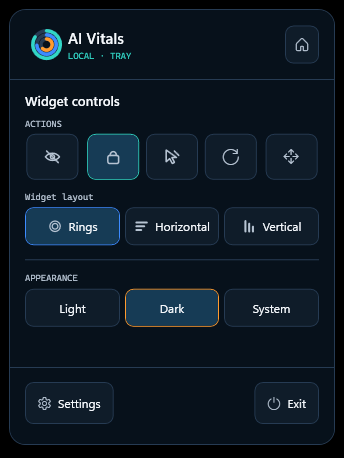
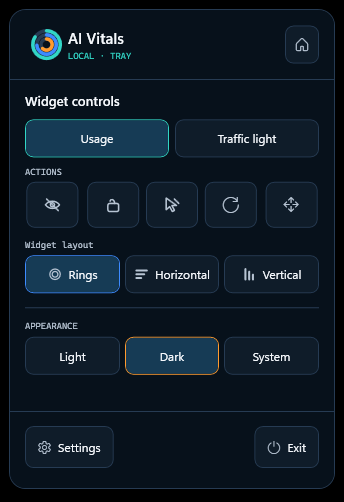
docs(readme): document both widgets and recapture the tray menu

diff --git a/src/AIVitals.App/App.xaml.cs b/src/AIVitals.App/App.xaml.cs
@@ -171,7 +171,10 @@ public partial class App : System.Windows.Application
             ConfigureActivityInstallers(activityWidgetPreferences.ShowSessionLabels);
             _activityMonitor = new AgentActivityMonitor(ToActivityProviders(activityWidgetPreferences.IncludedProviderIds!));
             _activityMonitor.Start();
-            await EnsureConfiguredActivityHooksAsync(_monitor.State.Preferences.EffectiveActivityIntegrations);
+            // The same switch that spares the real statusLine spares the real hook files: a sandboxed
+            // run must leave both agents' configuration exactly as it found it.
+            if (!skipClaudeInstaller)
+                await EnsureConfiguredActivityHooksAsync(_monitor.State.Preferences.EffectiveActivityIntegrations);
 
             ApplyStartupRegistration(_monitor.State.Preferences.StartWithWindows);
             _updateService.StatusChanged += OnUpdateStatusChanged;

diff --git a/README.md b/README.md
@@ -27,7 +27,7 @@ The application has no account system, cloud backend, or telemetry. Usage observ
 
 ## Screenshots
 
-AI Vitals provides three compact widget layouts for different workspaces. For every layout below, the left image is an unedited capture of the real application window; the right image places that same capture over an AI-generated, privacy-safe cartoon editor to demonstrate its on-screen footprint.
+AI Vitals has two widgets: a quota widget with three compact layouts, and an optional activity traffic light. For every quota layout below, the left image is an unedited capture of the real application window; the right image places that same capture over an AI-generated, privacy-safe cartoon editor to demonstrate its on-screen footprint. Every capture on this page comes from the running application.
 
 ### Activity rings
 
@@ -74,6 +74,29 @@ AI Vitals provides three compact widget layouts for different workspaces. For ev
   </tr>
 </table>
 
+### Activity traffic light
+
+The second widget answers a different question: not how much quota is left, but what the agents are doing right now. Green is a turn that ended, yellow a turn being processed, red at least one tool running, and grey no reliable signal. It shows one light per agent session and never grows past two rows by two columns.
+
+<table>
+  <tr>
+    <td width="24%" align="center">
+      <img src="./docs/images/widget-activity-single.png" alt="AI Vitals traffic light with a single session" width="108" /><br />
+      <sub>One session</sub>
+    </td>
+    <td width="38%" align="center">
+      <img src="./docs/images/widget-activity-grid.png" alt="AI Vitals traffic light with three sessions, the odd one centred on the second row" width="178" /><br />
+      <sub>Three sessions: the odd one centres</sub>
+    </td>
+    <td width="38%" align="center">
+      <img src="./docs/images/widget-activity-carousel.png" alt="AI Vitals traffic light with four sessions and page dots for the rest" width="178" /><br />
+      <sub>Five or more: pages every five seconds</sub>
+    </td>
+  </tr>
+</table>
+
+Each light carries the folder of its session when session labels are enabled, the duration of the turn it is running, and a count of tools working in parallel once there is more than one. The captures above were produced by feeding the local pipe a scripted set of sessions, so no real project name appears.
+
 ### Full dashboard
 
 ![AI Vitals dashboard showing Codex and Claude Code quota status](./docs/images/dashboard.png)
@@ -84,24 +107,28 @@ This is a direct capture of the running application with active, non-zero Claude
 
 <table>
   <tr>
-    <td width="56%" align="center">
+    <td width="40%" align="center">
       <img src="./docs/images/tray-quick-status.png" alt="AI Vitals quick status opened with a left click on the tray icon" width="440" /><br />
       <sub>Left click: live quota status and widget shortcuts</sub>
     </td>
-    <td width="44%" align="center">
-      <img src="./docs/images/tray-menu.png" alt="AI Vitals context menu opened with a right click on the tray icon" width="344" /><br />
-      <sub>Right click: widget, appearance, and application controls</sub>
+    <td width="30%" align="center">
+      <img src="./docs/images/tray-menu.png" alt="AI Vitals context menu showing the quota widget tab" width="344" /><br />
+      <sub>Right click: quota widget tab</sub>
+    </td>
+    <td width="30%" align="center">
+      <img src="./docs/images/tray-menu-activity.png" alt="AI Vitals context menu showing the traffic light tab with its live state" width="344" /><br />
+      <sub>Traffic light tab, with its live state</sub>
     </td>
   </tr>
 </table>
 
-Both images are direct captures of the running application, cropped to their exact window boundaries.
+The right-click menu carries one tab per widget. The traffic-light tab appears only once a provider integration is enabled, so an installation that uses the quota widget alone keeps the single-tab menu it always had. All three images are direct captures of the running application, cropped to their exact window boundaries.
 
 ## Features
 
 - **Live provider monitoring** for Codex and Claude Code through local integrations.
 - **Three widget layouts**: activity rings, horizontal bars, and vertical bars.
-- **Optional activity traffic light** for Claude Code and Codex, implemented natively in C# as a second independent widget.
+- **Optional activity traffic light** for Claude Code and Codex, implemented natively in C# as a second independent widget: one light per agent session, the running turn timed under each, and a carousel past four sessions.
 - **Tray-first workflow** with quick status, dashboard access, and widget controls.
 - **Usage history** with provider and date filters, backed by SQLite.
 - **CSV and JSON export** for the exact data currently in view.
@@ -163,21 +190,23 @@ dotnet run --project src/AIVitals.App/AIVitals.App.csproj
 
 AI Vitals starts in the notification area. Left-click the tray icon for quick status, or open the context menu for the dashboard and widget controls. Choosing **Exit** stops the adapters and closes the resident process.
 
-### Widget controls
+### Quota widget controls
 
-Use the tray menu to show or hide the widget, change its layout, lock its position, or enable click-through. Drag any free area to move it; the widget snaps to the current monitor's work area and restores its last position at startup.
+Use the tray menu to show or hide the quota widget, change its layout, lock its position, or enable click-through. Drag any free area to move it; the widget snaps to the current monitor's work area and restores its last position at startup.
 
-Each light also shows how long its current turn has been running, counted from the prompt AI Vitals saw. A turn already under way when the application starts shows no time rather than a guess, and a session that goes quiet stops counting instead of implying the agent is still working.
+Press `Ctrl+Shift+U` to recover both widgets. This makes them visible, disables click-through, unlocks them, and moves them to the monitor containing the pointer.
 
-A session name wider than its light slides gently between its two ends so the whole name can be read, and stops at an ellipsis when Windows animations are off or high contrast is on. The full name is always in the tooltip.
+### Activity traffic light
 
-Once an activity integration is enabled, the tray menu shows two tabs: one for the usage widget and one for the traffic light. The traffic-light tab carries the same show, lock, click-through, and recover actions, plus a shortcut to its settings and a read-only row with the current state and session count. Without an enabled integration the tab strip is not shown at all.
+The Widget section of the dashboard also enables the traffic light. Claude Code and Codex are switched on independently and only after explicit confirmation, and Codex needs one additional review in its `/hooks` screen before a newly installed hook can run. The light starts grey after every application restart, turns yellow while the agent is processing, red while one or more tools are running, and green only after a fresh stop or session-start event. It never turns green on a signal it no longer trusts: a session that goes quiet returns to grey.
 
-Press `Ctrl+Shift+U` to recover the widget. This makes it visible, disables click-through, unlocks it, and moves it to the monitor containing the pointer.
+There is one light per agent session. The widget holds at most two rows by two columns, at the width of the vertical quota widget: one session is a single narrow light, two sit side by side, three place the odd one centred on the second row, and past four the widget pages through them every five seconds, pausing while the pointer rests on it.
 
-The Widget section also contains an optional activity traffic light. Claude Code and Codex are enabled independently and only after explicit confirmation. Codex requires one additional review in its `/hooks` screen before a newly installed hook can run. The traffic light starts gray after every application restart, becomes yellow while the agent is processing, red while one or more tools are running, and green only after a fresh stop or session-start event.
+Under each light is the duration of the turn it is running, counted from the prompt AI Vitals saw. A turn already under way when the application starts is shown as a lower bound with a leading `~`, because its real beginning cannot be recovered, and a session that goes quiet stops counting instead of implying the agent is still working. A number beside a light counts tools running in parallel, and appears only from two upward, where the colour alone cannot tell you.
 
-The widget shows one light per agent session. It holds at most two rows by two columns at the width of the vertical usage widget: one session is a single narrow light, two sit side by side, three place the odd one centred on the second row, and past four the widget pages through them every five seconds, pausing while the pointer rests on it. **Show session folder** is off by default; enabling it labels each light with the leaf directory name of its session so concurrent sessions can be told apart. The Widget settings tab previews the traffic light next to the usage widget.
+**Show session folder** is off by default. Enabling it labels each light with the last directory name of its session, so concurrent sessions can be told apart. A name too wide for its light slides between its two ends and trims to an ellipsis instead when Windows animations are off or high contrast is on; the full name is always in the tooltip.
+
+Once either integration is enabled, the tray menu carries one tab per widget. The traffic-light tab has the same show, lock, click-through and recover actions, a shortcut to its settings, and a read-only row with the current state and session count. Without an enabled integration the tab strip is not shown at all. The Widget settings tab previews the traffic light next to the quota widget.
 
 ## Privacy
 
@@ -228,7 +257,7 @@ Publishing is driven by tags: pushing `v0.1.0` runs [.github/workflows/release.y
 
 ## Project status
 
-The domain model, local persistence, live Codex and Claude Code adapters, widget, quick popup, dashboard, history, export, localization, themes, accessibility support, and the installer and update channel are implemented. The remaining release gates are the full Windows 10/11, x64/ARM64, and 100/150/200% DPI matrix documented in [docs/quality-matrix.md](docs/quality-matrix.md), and the clean-machine checks in [docs/release-checklist.md](docs/release-checklist.md).
+The domain model, local persistence, live Codex and Claude Code adapters, both widgets, quick popup, dashboard, history, export, localization, themes, accessibility support, and the installer and update channel are implemented. The remaining release gates are the full Windows 10/11, x64/ARM64, and 100/150/200% DPI matrix documented in [docs/quality-matrix.md](docs/quality-matrix.md), and the clean-machine checks in [docs/release-checklist.md](docs/release-checklist.md).
 
 ## AI-assisted development
 
